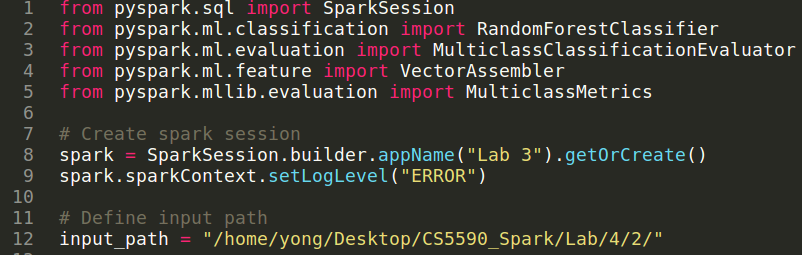
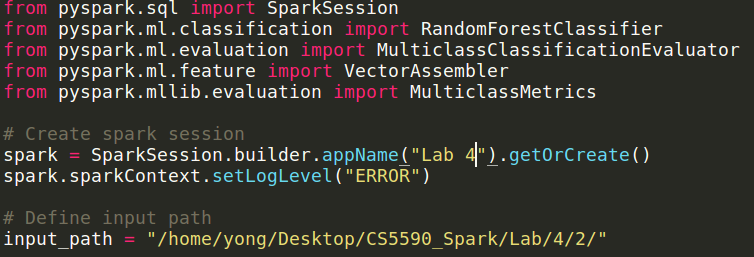
Documentation for part 2

diff --git a/Lab/4/2/dt.py b/Lab/4/2/dt.py
@@ -5,7 +5,7 @@ from pyspark.ml.feature import VectorAssembler
 from pyspark.mllib.evaluation import MulticlassMetrics
 
 # Create spark session
-spark = SparkSession.builder.appName("Lab 3").getOrCreate()
+spark = SparkSession.builder.appName("Lab 4").getOrCreate()
 spark.sparkContext.setLogLevel("ERROR")
 
 # Define input path

diff --git a/Lab/4/2/nb.py b/Lab/4/2/nb.py
@@ -5,7 +5,7 @@ from pyspark.ml.feature import VectorAssembler
 from pyspark.mllib.evaluation import MulticlassMetrics
 
 # Create spark session
-spark = SparkSession.builder.appName("Lab 3").getOrCreate()
+spark = SparkSession.builder.appName("Lab 4").getOrCreate()
 spark.sparkContext.setLogLevel("ERROR")
 
 # Define input path

diff --git a/Lab/4/2/rf.py b/Lab/4/2/rf.py
@@ -5,7 +5,7 @@ from pyspark.ml.feature import VectorAssembler
 from pyspark.mllib.evaluation import MulticlassMetrics
 
 # Create spark session
-spark = SparkSession.builder.appName("Lab 3").getOrCreate()
+spark = SparkSession.builder.appName("Lab 4").getOrCreate()
 spark.sparkContext.setLogLevel("ERROR")
 
 # Define input path
